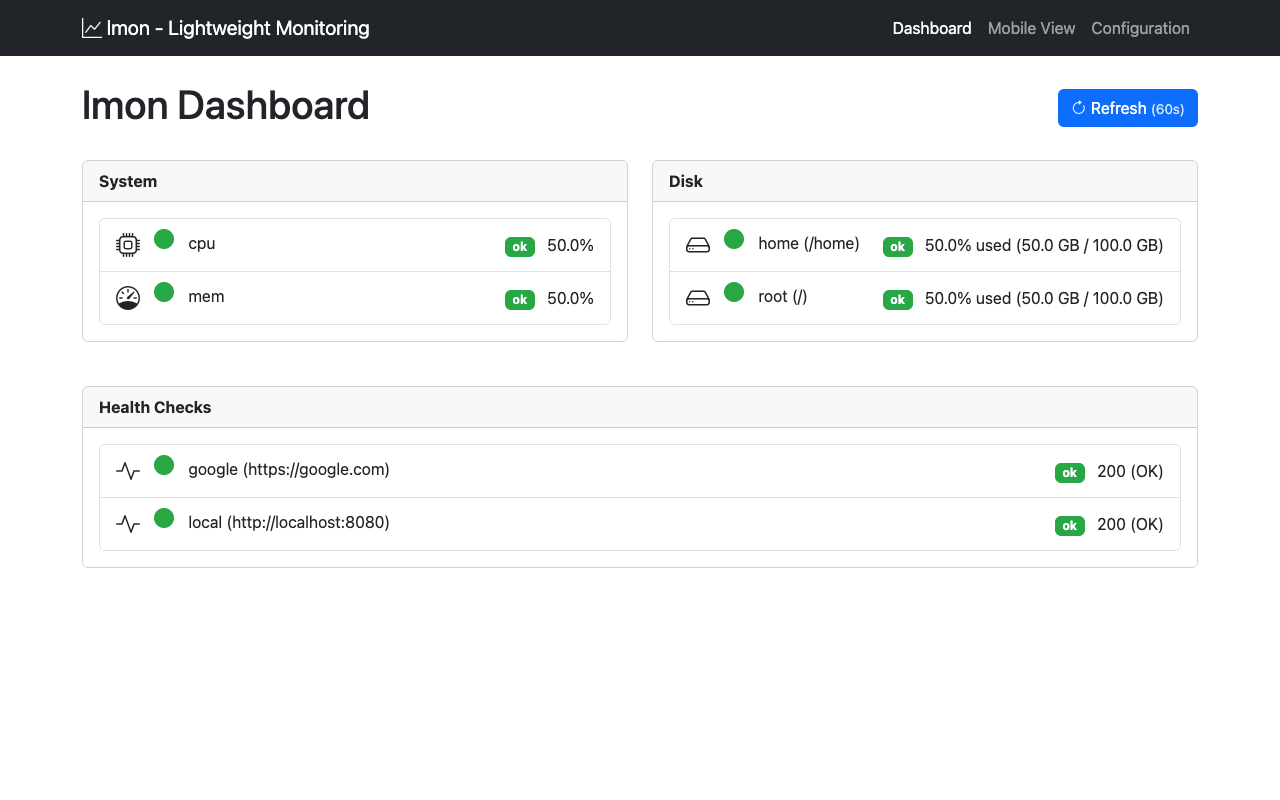
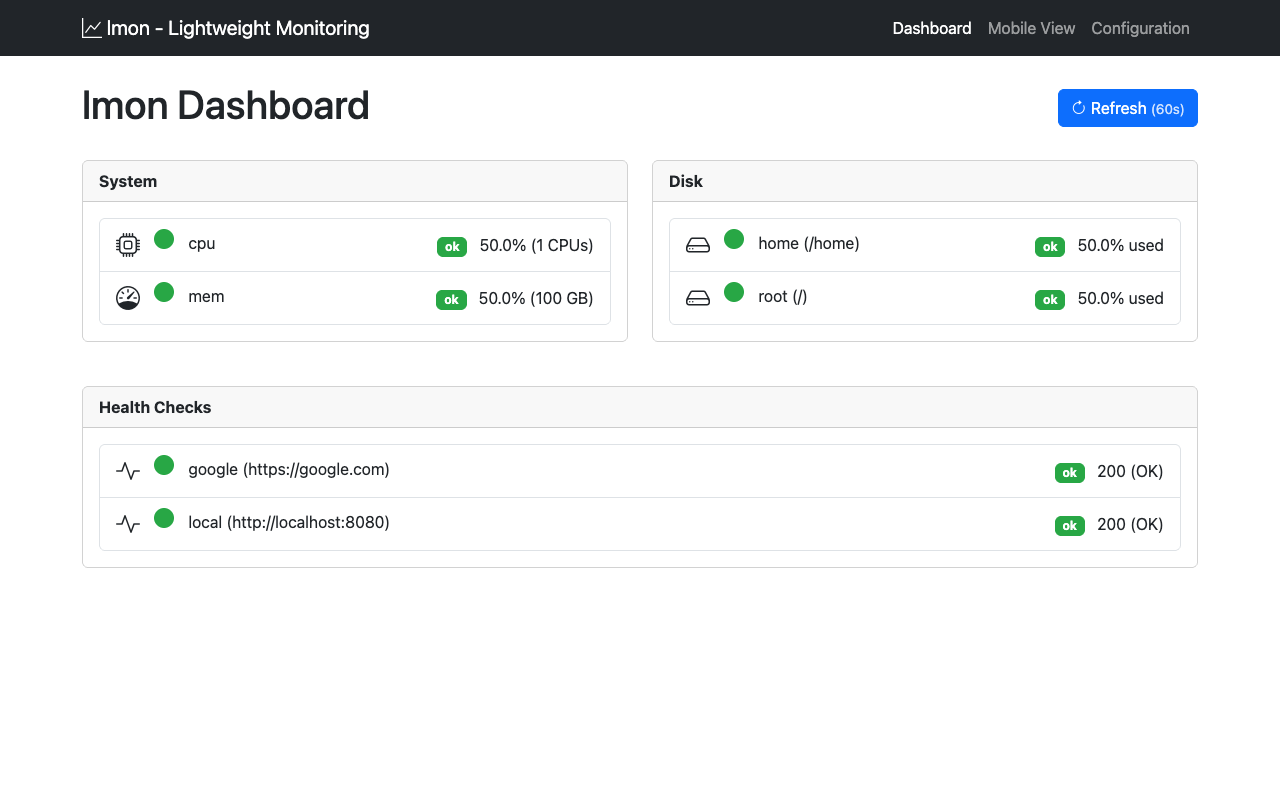
feat: Enhance CPU and memory monitoring with detailed statistics and constants

Changed region(s): [[0.6875, 0.2812, 0.9062, 0.4062], [0.3438, 0.2812, 0.4688, 0.4062]]

diff --git a/monitors/disk/disk_test.go b/monitors/disk/disk_test.go
@@ -10,6 +10,7 @@ import (
 	"github.com/stretchr/testify/require"
 	"go.uber.org/atomic"
 
+	"lmon/common"
 	"lmon/config"
 	"lmon/monitors"
 )
@@ -125,12 +126,12 @@ func TestDisk_Check_Mock(t *testing.T) {
 		threshold int
 		want      monitors.Result
 	}{
-		{"green 50", 50, 100 * gigabyte, nil, 90, monitors.Result{Status: monitors.RAGGreen, Value: "50.0% used (50.0 GB / 100.0 GB)"}},
-		{"green 90", 80, 100 * gigabyte, nil, 90, monitors.Result{Status: monitors.RAGGreen, Value: "80.0% used (80.0 GB / 100.0 GB)"}},
-		{"amber 81", 81, 100 * gigabyte, nil, 90, monitors.Result{Status: monitors.RAGAmber, Value: "81.0% used (81.0 GB / 100.0 GB)"}},
-		{"amber 89", 89, 100 * gigabyte, nil, 90, monitors.Result{Status: monitors.RAGAmber, Value: "89.0% used (89.0 GB / 100.0 GB)"}},
-		{"red 90", 90, 100 * gigabyte, nil, 90, monitors.Result{Status: monitors.RAGRed, Value: "90.0% used (90.0 GB / 100.0 GB)"}},
-		{"red 100", 100, 100 * gigabyte, nil, 90, monitors.Result{Status: monitors.RAGRed, Value: "100.0% used (100.0 GB / 100.0 GB)"}},
+		{"green 50", 50, 100 * common.Gigabyte, nil, 90, monitors.Result{Status: monitors.RAGGreen, Value: "50.0% used", Value2: "Total: 100.0 GB, Used: 50.0 GB, Free: 50.0 GB"}},
+		{"green 90", 80, 100 * common.Gigabyte, nil, 90, monitors.Result{Status: monitors.RAGGreen, Value: "80.0% used", Value2: "Total: 100.0 GB, Used: 80.0 GB, Free: 20.0 GB"}},
+		{"amber 81", 81, 100 * common.Gigabyte, nil, 90, monitors.Result{Status: monitors.RAGAmber, Value: "81.0% used", Value2: "Total: 100.0 GB, Used: 81.0 GB, Free: 19.0 GB"}},
+		{"amber 89", 89, 100 * common.Gigabyte, nil, 90, monitors.Result{Status: monitors.RAGAmber, Value: "89.0% used", Value2: "Total: 100.0 GB, Used: 89.0 GB, Free: 11.0 GB"}},
+		{"red   90", 90, 100 * common.Gigabyte, nil, 90, monitors.Result{Status: monitors.RAGRed, Value: "90.0% used", Value2: "Total: 100.0 GB, Used: 90.0 GB, Free: 10.0 GB"}},
+		{"red  100", 100, 100 * common.Gigabyte, nil, 90, monitors.Result{Status: monitors.RAGRed, Value: "100.0% used", Value2: "Total: 100.0 GB, Used: 100.0 GB, Free: 0.0 GB"}},
 	}
 
 	for _, tt := range tests {
@@ -139,6 +140,7 @@ func TestDisk_Check_Mock(t *testing.T) {
 			r := d.Check(t.Context())
 			assert.Equal(t, tt.want.Status, r.Status, "status")
 			assert.Equal(t, tt.want.Value, r.Value, "value")
+			assert.Equal(t, tt.want.Value2, r.Value2, "value")
 		})
 
 	}
@@ -149,7 +151,7 @@ func Test_Check_PushOnAddWithBreach(t *testing.T) {
 	push := monitors.NewMockPush()
 
 	svc := monitors.NewService(t.Context(), 10*time.Millisecond, time.Millisecond, push.Push)
-	d := NewDisk("test", "/test", 90, "", MockDiskProvider{Current: atomic.NewFloat64(90), total: 100 * gigabyte, err: nil, path: "/test"})
+	d := NewDisk("test", "/test", 90, "", MockDiskProvider{Current: atomic.NewFloat64(90), total: 100 * common.Gigabyte, err: nil, path: "/test"})
 	svc.Add(t.Context(), d)
 
 	assert.Eventually(t, func() bool {
@@ -166,7 +168,7 @@ func Test_Check_PushOnAddWithErr(t *testing.T) {
 	push := monitors.NewMockPush()
 
 	svc := monitors.NewService(t.Context(), 10*time.Millisecond, time.Millisecond, push.Push)
-	d := NewDisk("test", "/test", 90, "", MockDiskProvider{Current: atomic.NewFloat64(0), total: 100 * gigabyte, err: os.ErrNotExist, path: "/test"})
+	d := NewDisk("test", "/test", 90, "", MockDiskProvider{Current: atomic.NewFloat64(0), total: 100 * common.Gigabyte, err: os.ErrNotExist, path: "/test"})
 
 	svc.Add(t.Context(), d)
 
@@ -205,7 +207,7 @@ func Test_Check_PushOnChange(t *testing.T) {
 		t.Run(tt.name, func(t *testing.T) {
 			push := monitors.NewMockPush()
 			svc := monitors.NewService(t.Context(), 10*time.Millisecond, time.Millisecond, push.Push)
-			impl := MockDiskProvider{Current: atomic.NewFloat64(tt.initial), total: 100 * gigabyte, path: "/test"}
+			impl := MockDiskProvider{Current: atomic.NewFloat64(tt.initial), total: 100 * common.Gigabyte, path: "/test"}
 			d := NewDisk("test", "/test", 90, "", &impl)
 			svc.Add(t.Context(), d)
 

diff --git a/monitors/system/cpu.go b/monitors/system/cpu.go
@@ -33,6 +33,7 @@ import (
 	"time"
 
 	"github.com/shirou/gopsutil/v3/cpu"
+	"github.com/shirou/gopsutil/v3/load"
 
 	"lmon/common"
 	"lmon/config"
@@ -45,10 +46,18 @@ const Group = "system" // Group name for system monitors
 // CpuProvider is an interface for obtaining CPU usage statistics.
 // It allows for production and mock implementations.
 
+type CpuStat struct {
+	Usage   float64 // CPU usage percentage
+	Count   int     // Number of CPU cores
+	Load1m  float64 // 1 minute load average
+	Load5m  float64 // 5 minute load average
+	Load15m float64 // 15 minute load average
+}
+
 // CpuProvider is an interface for obtaining CPU usage statistics.
 // It allows for production and mock implementations.
 type CpuProvider interface {
-	Usage() (float64, error)
+	Usage() (CpuStat, error)
 }
 
 // defaultCpuProvider is the default implementation of CpuProvider using gopsutil.
@@ -58,6 +67,7 @@ type defaultCpuProvider struct {
 	mu           sync.Mutex // Mutex to protect access to CPU times
 	prevCPUTimes cpu.TimesStat
 	lastCPUCheck time.Time
+	cpuCount     int
 }
 
 // newDefaultCpuProvider creates a new defaultCpuProvider and initializes its state.
@@ -68,19 +78,34 @@ func newDefaultCpuProvider() *defaultCpuProvider {
 }
 
 // Usage returns the current CPU usage percentage.
-func (d *defaultCpuProvider) Usage() (float64, error) {
+func (d *defaultCpuProvider) Usage() (CpuStat, error) {
 	d.mu.Lock()
 	defer d.mu.Unlock()
 	times, err := cpu.Times(false)
 	if err != nil {
-		return 0, err
+		return CpuStat{}, err
 	}
 
+	ld, err := load.Avg()
+	if err != nil {
+		return CpuStat{}, err
+	}
+
+	if len(times) == 0 {
+		return CpuStat{}, fmt.Errorf("no CPU times available")
+	}
+	d.cpuCount = len(times) - 1 // Ignore the first entry which is the total CPU time
 	usage := calculateCPUPercentage(times[0], d.prevCPUTimes)
 
 	d.prevCPUTimes = times[0]
 	d.lastCPUCheck = time.Now()
-	return usage, nil
+	return CpuStat{
+		Usage:   usage,
+		Count:   d.cpuCount,
+		Load1m:  ld.Load1,
+		Load5m:  ld.Load5,
+		Load15m: ld.Load15,
+	}, nil
 }
 
 // calculateCPUPercentage calculates the CPU usage percentage based on the difference
@@ -174,23 +199,25 @@ func (c Cpu) Save(cfg *config.Config) {
 //   - Amber: usage >= 90% of threshold but < threshold
 //   - Red: usage >= threshold
 func (c Cpu) Check(_ context.Context) monitors.Result {
-	usage, err := c.impl.Usage()
+	stat, err := c.impl.Usage()
 	if err != nil {
 		return monitors.Result{
 			Status: monitors.RAGError,
 			Value:  fmt.Sprintf("error getting CPU Current: %v", err),
 		}
 	}
-	val := fmt.Sprintf("%.1f%%", usage)
+	val := fmt.Sprintf("%.1f%% (%d CPUs)", stat.Usage, stat.Count)
+	Val2 := fmt.Sprintf("Load Avg (1m/5m/15m)  %.1f %.1f %.1f", stat.Load1m, stat.Load5m, stat.Load15m)
 	status := monitors.RAGGreen
 	switch {
-	case usage >= float64(c.threshold):
+	case stat.Usage >= float64(c.threshold):
 		status = monitors.RAGRed
-	case usage >= float64(c.threshold)*.9:
+	case stat.Usage >= float64(c.threshold)*.9:
 		status = monitors.RAGAmber
 	}
 	return monitors.Result{
 		Status: status,
 		Value:  val,
+		Value2: Val2,
 	}
 }

diff --git a/monitors/system/mem_test.go b/monitors/system/mem_test.go
@@ -9,6 +9,7 @@ import (
 	"github.com/stretchr/testify/assert"
 	"go.uber.org/atomic"
 
+	"lmon/common"
 	"lmon/config"
 	"lmon/monitors"
 )
@@ -79,22 +80,24 @@ func TestMem_Check_Mock(t *testing.T) {
 		threshold int
 		want      monitors.Result
 	}{
-		{"green 50", 50, nil, 90, monitors.Result{Status: monitors.RAGGreen, Value: "50.0%"}},
-		{"green 90", 80, nil, 90, monitors.Result{Status: monitors.RAGGreen, Value: "80.0%"}},
-		{"amber 81", 81, nil, 90, monitors.Result{Status: monitors.RAGAmber, Value: "81.0%"}},
-		{"amber 89", 89, nil, 90, monitors.Result{Status: monitors.RAGAmber, Value: "89.0%"}},
-		{"red 90", 90, nil, 90, monitors.Result{Status: monitors.RAGRed, Value: "90.0%"}},
-		{"red 100", 100, nil, 90, monitors.Result{Status: monitors.RAGRed, Value: "100.0%"}},
+		{"green 50", 50, nil, 90, monitors.Result{Status: monitors.RAGGreen, Value: "50.0% (100 GB)", Value2: "50.0 GB used, 50.0 GB free"}},
+		{"green 90", 80, nil, 90, monitors.Result{Status: monitors.RAGGreen, Value: "80.0% (100 GB)", Value2: "80.0 GB used, 20.0 GB free"}},
+		{"amber 81", 81, nil, 90, monitors.Result{Status: monitors.RAGAmber, Value: "81.0% (100 GB)", Value2: "81.0 GB used, 19.0 GB free"}},
+		{"amber 89", 89, nil, 90, monitors.Result{Status: monitors.RAGAmber, Value: "89.0% (100 GB)", Value2: "89.0 GB used, 11.0 GB free"}},
+		{"red 90", 90, nil, 90, monitors.Result{Status: monitors.RAGRed, Value: "90.0% (100 GB)", Value2: "90.0 GB used, 10.0 GB free"}},
+		{"red 100", 100, nil, 90, monitors.Result{Status: monitors.RAGRed, Value: "100.0% (100 GB)", Value2: "100.0 GB used, 0.0 GB free"}},
 		{"err", 100, os.ErrPermission, 90, monitors.Result{Status: monitors.RAGError, Value: "error getting mem usage: permission denied"}},
 	}
 
 	for _, tt := range tests {
 		tt := tt
 		t.Run(tt.name, func(t *testing.T) {
-			c := NewMem(tt.threshold, "", MockMemProvider{Current: atomic.NewFloat64(tt.usage), err: tt.err})
+			c := NewMem(tt.threshold, "", MockMemProvider{Current: atomic.NewFloat64(tt.usage),
+				total: 100 * common.Gigabyte, err: tt.err})
 			r := c.Check(t.Context())
 			assert.Equal(t, tt.want.Status, r.Status, "status")
 			assert.Equal(t, tt.want.Value, r.Value, "value")
+			assert.Equal(t, tt.want.Value2, r.Value2, "value2")
 		})
 
 	}

diff --git a/monitors/system/cpu_test.go b/monitors/system/cpu_test.go
@@ -85,12 +85,12 @@ func TestCpu_Check_Mock(t *testing.T) {
 		threshold int
 		want      monitors.Result
 	}{
-		{"green 50", 50, nil, 90, monitors.Result{Status: monitors.RAGGreen, Value: "50.0%"}},
-		{"green 90", 80, nil, 90, monitors.Result{Status: monitors.RAGGreen, Value: "80.0%"}},
-		{"amber 81", 81, nil, 90, monitors.Result{Status: monitors.RAGAmber, Value: "81.0%"}},
-		{"amber 89", 89, nil, 90, monitors.Result{Status: monitors.RAGAmber, Value: "89.0%"}},
-		{"red 90", 90, nil, 90, monitors.Result{Status: monitors.RAGRed, Value: "90.0%"}},
-		{"red 100", 100, nil, 90, monitors.Result{Status: monitors.RAGRed, Value: "100.0%"}},
+		{"green 50", 50, nil, 90, monitors.Result{Status: monitors.RAGGreen, Value: "50.0% (1 CPUs)", Value2: "Load Avg (1m/5m/15m)  50.0 37.5 25.0"}},
+		{"green 90", 80, nil, 90, monitors.Result{Status: monitors.RAGGreen, Value: "80.0% (1 CPUs)", Value2: "Load Avg (1m/5m/15m)  80.0 60.0 40.0"}},
+		{"amber 81", 81, nil, 90, monitors.Result{Status: monitors.RAGAmber, Value: "81.0% (1 CPUs)", Value2: "Load Avg (1m/5m/15m)  81.0 60.8 40.5"}},
+		{"amber 89", 89, nil, 90, monitors.Result{Status: monitors.RAGAmber, Value: "89.0% (1 CPUs)", Value2: "Load Avg (1m/5m/15m)  89.0 66.8 44.5"}},
+		{"red 90", 90, nil, 90, monitors.Result{Status: monitors.RAGRed, Value: "90.0% (1 CPUs)", Value2: "Load Avg (1m/5m/15m)  90.0 67.5 45.0"}},
+		{"red 100", 100, nil, 90, monitors.Result{Status: monitors.RAGRed, Value: "100.0% (1 CPUs)", Value2: "Load Avg (1m/5m/15m)  100.0 75.0 50.0"}},
 		{"err", 100, os.ErrPermission, 90, monitors.Result{Status: monitors.RAGError, Value: "error getting CPU Current: permission denied"}},
 	}
 
@@ -100,6 +100,7 @@ func TestCpu_Check_Mock(t *testing.T) {
 			r := c.Check(t.Context())
 			assert.Equal(t, tt.want.Status, r.Status, "status")
 			assert.Equal(t, tt.want.Value, r.Value, "value")
+			assert.Equal(t, tt.want.Value2, r.Value2, "value2")
 		})
 
 	}

diff --git a/monitors/system/mock.go b/monitors/system/mock.go
@@ -4,6 +4,8 @@ package system
 import (
 	"github.com/shirou/gopsutil/v3/mem"
 	"go.uber.org/atomic"
+
+	"lmon/common"
 )
 
 var _ CpuProvider = (*MockCpuProvider)(nil)
@@ -17,11 +19,17 @@ type MockCpuProvider struct {
 }
 
 // Usage returns the mocked CPU usage or an error if set.
-func (m MockCpuProvider) Usage() (float64, error) {
+func (m MockCpuProvider) Usage() (CpuStat, error) {
 	if m.err != nil {
-		return 0, m.err
+		return CpuStat{}, m.err
 	}
-	return m.Current.Load(), nil
+	return CpuStat{
+		Usage:   m.Current.Load(),
+		Count:   8,
+		Load1m:  m.Current.Load(),
+		Load5m:  m.Current.Load() * .75,
+		Load15m: m.Current.Load() * .5,
+	}, nil
 }
 
 // NewMockCpuProvider creates a new MockCpuProvider with the given initial usage percentage.
@@ -44,13 +52,13 @@ func (m MockMemProvider) Usage() (*mem.VirtualMemoryStat, error) {
 	}
 	return &mem.VirtualMemoryStat{
 		Total:       uint64(m.total),
-		Available:   uint64(m.total - m.Current.Load()*m.total),
-		Used:        uint64(m.Current.Load() * m.total),
+		Available:   uint64(m.total * (1 - m.Current.Load()/100)),
+		Used:        uint64(m.Current.Load() / 100.0 * m.total),
 		UsedPercent: m.Current.Load(),
 	}, nil
 }
 
 // NewMockMemProvider creates a new MockMemProvider with the given initial usage percentage.
 func NewMockMemProvider(initial float64) *MockMemProvider {
-	return &MockMemProvider{Current: atomic.NewFloat64(initial)}
+	return &MockMemProvider{Current: atomic.NewFloat64(initial), total: 100 * common.Gigabyte}
 }

diff --git a/monitors/system/mock_test.go b/monitors/system/mock_test.go
@@ -5,6 +5,8 @@ import (
 	"testing"
 
 	"github.com/stretchr/testify/assert"
+
+	"lmon/common"
 )
 
 // TestNewMockCpuProvider verifies that NewMockCpuProvider initializes the Current value correctly.
@@ -12,11 +14,22 @@ func TestNewMockCpuProvider(t *testing.T) {
 	m := NewMockCpuProvider(50)
 	assert.NotNil(t, m, "should not be nil")
 	assert.Equalf(t, 50.0, m.Current.Load(), "Initial value")
+	u, err := m.Usage()
+	assert.NoError(t, err, "should not error")
+	assert.Equal(t, 50.0, u.Usage, "Usage should match initial value")
+	assert.Equal(t, 8, u.Count, "Count should be 8")
 }
 
 // TestNewMockMemProvider verifies that NewMockMemProvider initializes the Current value correctly.
 func TestNewMockMemProvider(t *testing.T) {
-	m := NewMockMemProvider(50)
+	m := NewMockMemProvider(40)
 	assert.NotNil(t, m, "should not be nil")
-	assert.Equalf(t, 50.0, m.Current.Load(), "Initial value")
+	assert.Equalf(t, 40.0, m.Current.Load(), "Initial value")
+	u, err := m.Usage()
+	assert.NoError(t, err, "should not error")
+	assert.Equal(t, 40.0, u.UsedPercent, "UsedPercent should match initial value")
+	assert.Equal(t, uint64(common.Gigabyte*100), u.Total, "Total should match initial value")
+	assert.Equal(t, uint64(common.Gigabyte*40), u.Used, "Used should match 50% of total")
+	assert.Equal(t, uint64(common.Gigabyte*60), u.Available, "Available should match 50% of total")
+
 }

diff --git a/monitors/disk/disk.go b/monitors/disk/disk.go
@@ -42,7 +42,6 @@ import (
 
 const Icon = "hdd"   // Default icon for disk monitors
 const Group = "disk" // Group name for disk monitors
-const gigabyte = 1024 * 1024 * 1024
 
 // UsageProvider is an interface for obtaining disk usage statistics.
 // It allows for production and mock implementations.
@@ -148,9 +147,10 @@ func (d Disk) Check(_ context.Context) monitors.Result {
 		}
 	}
 
-	total := float64(usage.Total) / gigabyte
+	total := float64(usage.Total) / common.Gigabyte
 	used := total * usage.UsedPercent / 100.0
-	res := fmt.Sprintf("%.1f%% used (%.1f GB / %.1f GB)", usage.UsedPercent, used, total)
+	res := fmt.Sprintf("%.1f%% used", usage.UsedPercent)
+	res2 := fmt.Sprintf("Total: %.1f GB, Used: %.1f GB, Free: %.1f GB", total, used, total-used)
 	status := monitors.RAGGreen
 	switch {
 	case usage.UsedPercent >= float64(d.threshold):
@@ -162,5 +162,6 @@ func (d Disk) Check(_ context.Context) monitors.Result {
 	return monitors.Result{
 		Status: status,
 		Value:  res,
+		Value2: res2,
 	}
 }

diff --git a/monitors/system/mem.go b/monitors/system/mem.go
@@ -125,7 +125,8 @@ func (c Mem) Check(_ context.Context) monitors.Result {
 			Value:  fmt.Sprintf("error getting mem usage: %v", err),
 		}
 	}
-	val := fmt.Sprintf("%.1f%%", usage.UsedPercent)
+	val := fmt.Sprintf("%.1f%% (%d GB)", usage.UsedPercent, usage.Total/common.Gigabyte)
+	val2 := fmt.Sprintf("%.1f GB used, %.1f GB free", float64(usage.Used)/common.Gigabyte, float64(usage.Available)/common.Gigabyte)
 	status := monitors.RAGGreen
 	switch {
 	case usage.UsedPercent >= float64(c.threshold):
@@ -136,5 +137,6 @@ func (c Mem) Check(_ context.Context) monitors.Result {
 	return monitors.Result{
 		Status: status,
 		Value:  val,
+		Value2: val2,
 	}
 }

diff --git a/monitors/disk/mock.go b/monitors/disk/mock.go
@@ -4,6 +4,8 @@ package disk
 import (
 	"github.com/shirou/gopsutil/v3/disk"
 	"go.uber.org/atomic"
+
+	"lmon/common"
 )
 
 var _ UsageProvider = (*MockDiskProvider)(nil)
@@ -34,6 +36,6 @@ func (m MockDiskProvider) Usage(_ string) (*disk.UsageStat, error) {
 func NewMockDiskProvider(initial float64) *MockDiskProvider {
 	return &MockDiskProvider{
 		Current: atomic.NewFloat64(initial),
-		total:   100 * gigabyte,
+		total:   100 * common.Gigabyte,
 	}
 }

diff --git a/monitors/monitors.go b/monitors/monitors.go
@@ -55,6 +55,7 @@ func (r RAG) String() string {
 type Result struct {
 	Status      RAG    // The RAG status of the check
 	Value       string // Human-readable value or message
+	Value2      string // Optional second value for additional context
 	Group       string // Group/category of the monitor
 	DisplayName string // Display name for UI
 }

diff --git a/uitest/screenshots_test.go b/uitest/screenshots_test.go
@@ -18,6 +18,7 @@ func Test_GenerateScreenshots(t *testing.T) {
 	defer cancel()
 
 	s, _ := web.StartTestServer(ctx, t, "./screenshots.yaml")
+
 	s.Start(ctx)
 
 	browser := getBrowser(t)

diff --git a/common/constants.go b/common/constants.go
@@ -1,0 +1,3 @@
+package common
+
+const Gigabyte = 1024 * 1024 * 1024
